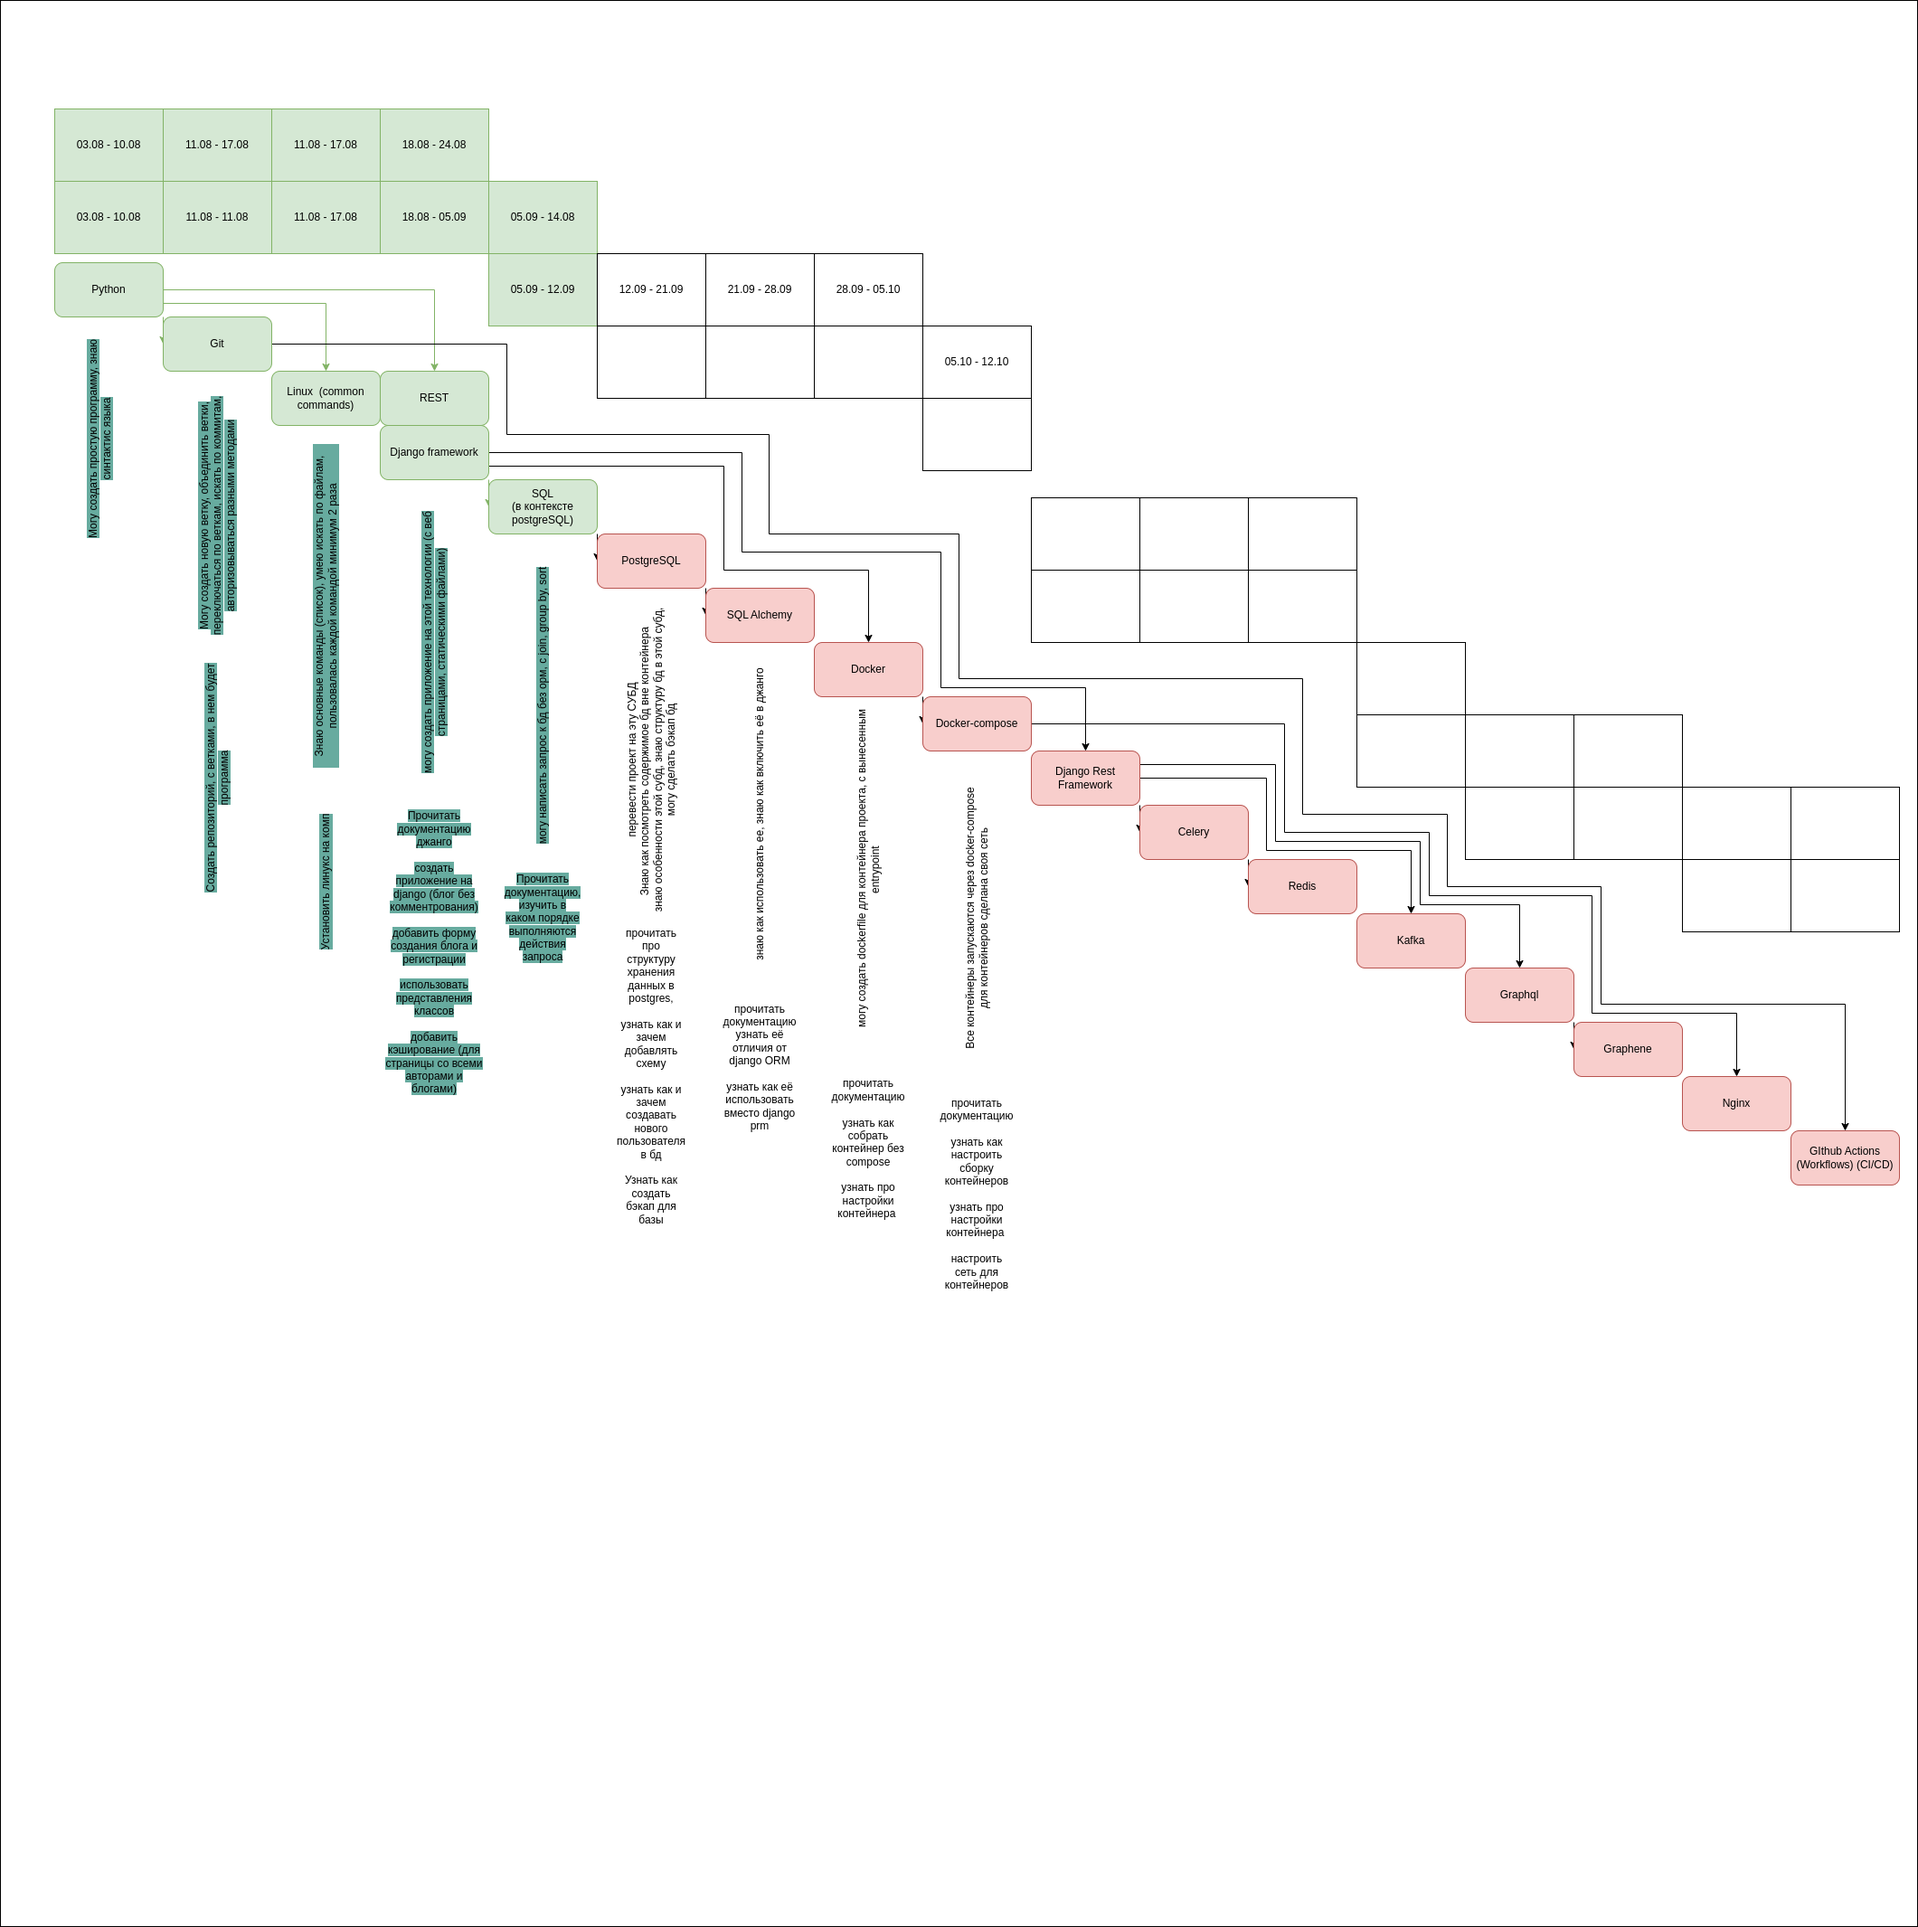
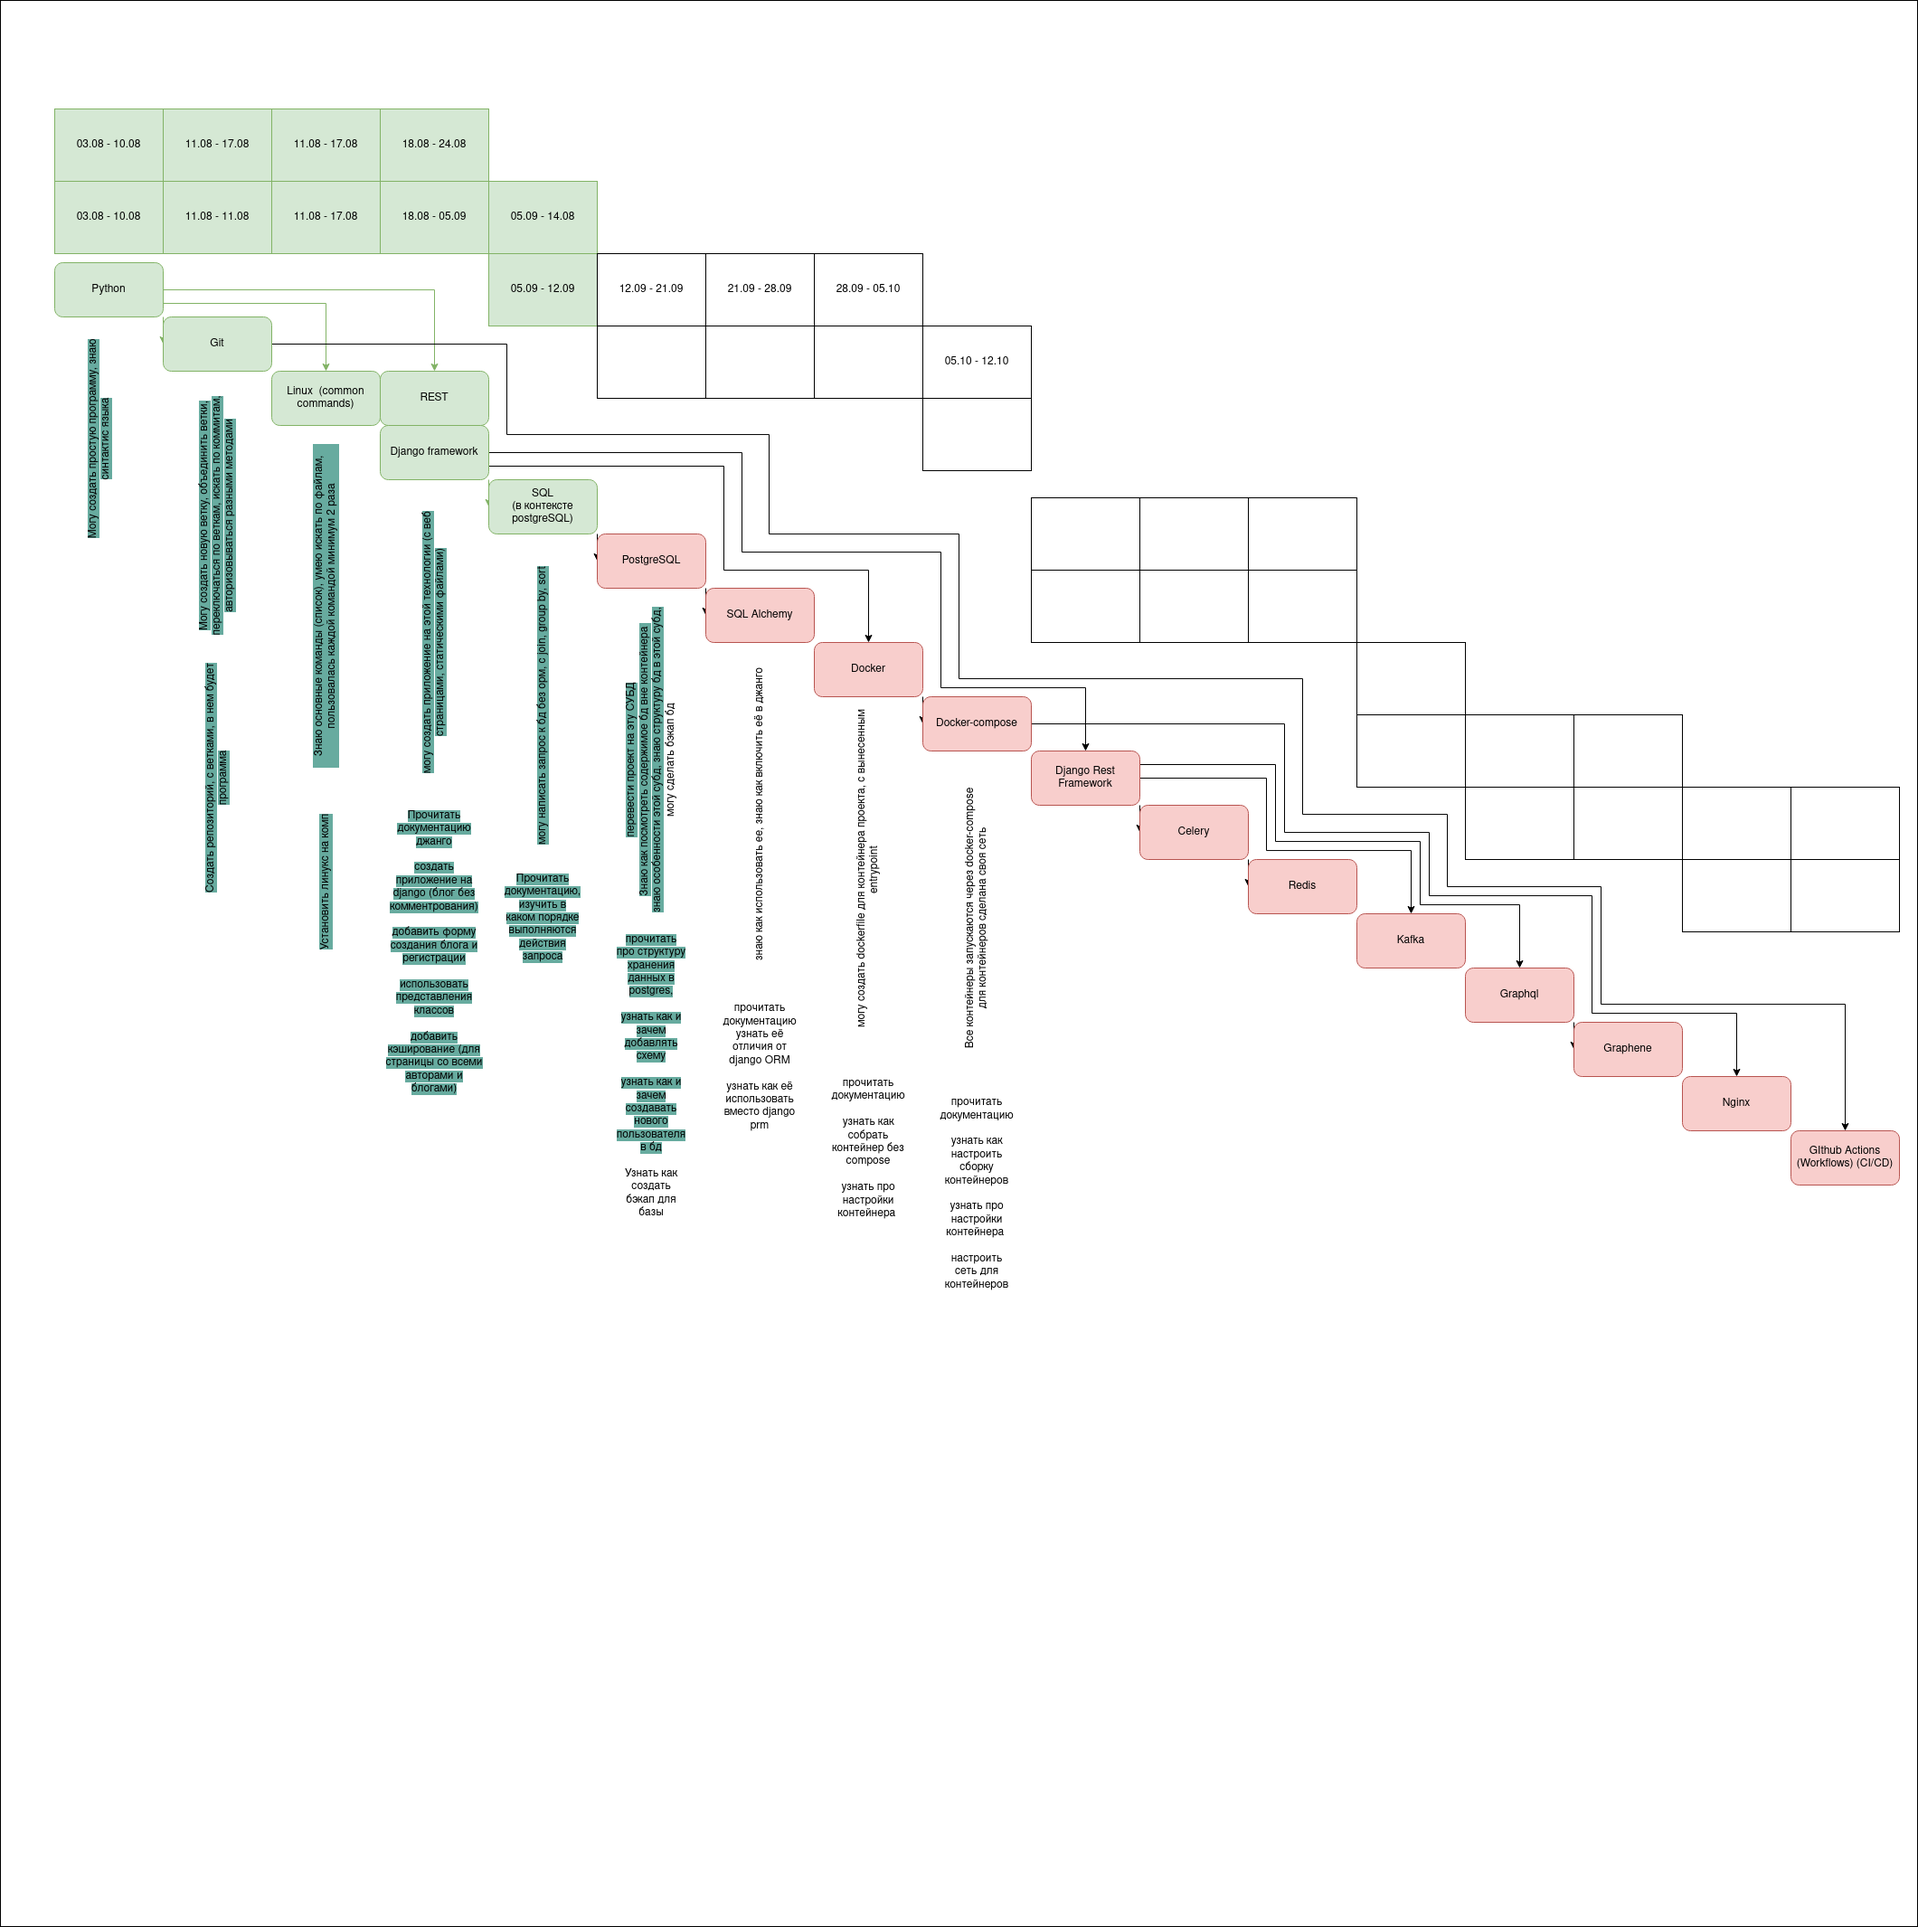
almost finish with postgres, without backups

diff --git a/new_blog_app/roadmapsite/settings.py b/new_blog_app/roadmapsite/settings.py
@@ -103,9 +103,18 @@ WSGI_APPLICATION = "roadmapsite.wsgi.application"
 # https://docs.djangoproject.com/en/4.2/ref/settings/#databases
 
 DATABASES = {
+    # "default": {
+    #     "ENGINE": "django.db.backends.sqlite3",
+    #     "NAME": BASE_DIR / "db.sqlite3",
+    # },
     "default": {
-        "ENGINE": "django.db.backends.sqlite3",
-        "NAME": BASE_DIR / "db.sqlite3",
+        "ENGINE": "django.db.backends.postgresql_psycopg2",
+        "OPTIONS": {"options": "-c search_path=custom_scheme"},
+        "NAME": "new_db",
+        "USER": "djangosite",
+        "PASSWORD": "1111",
+        "HOST": "localhost",
+        "PORT": "5432",
     }
 }
 
